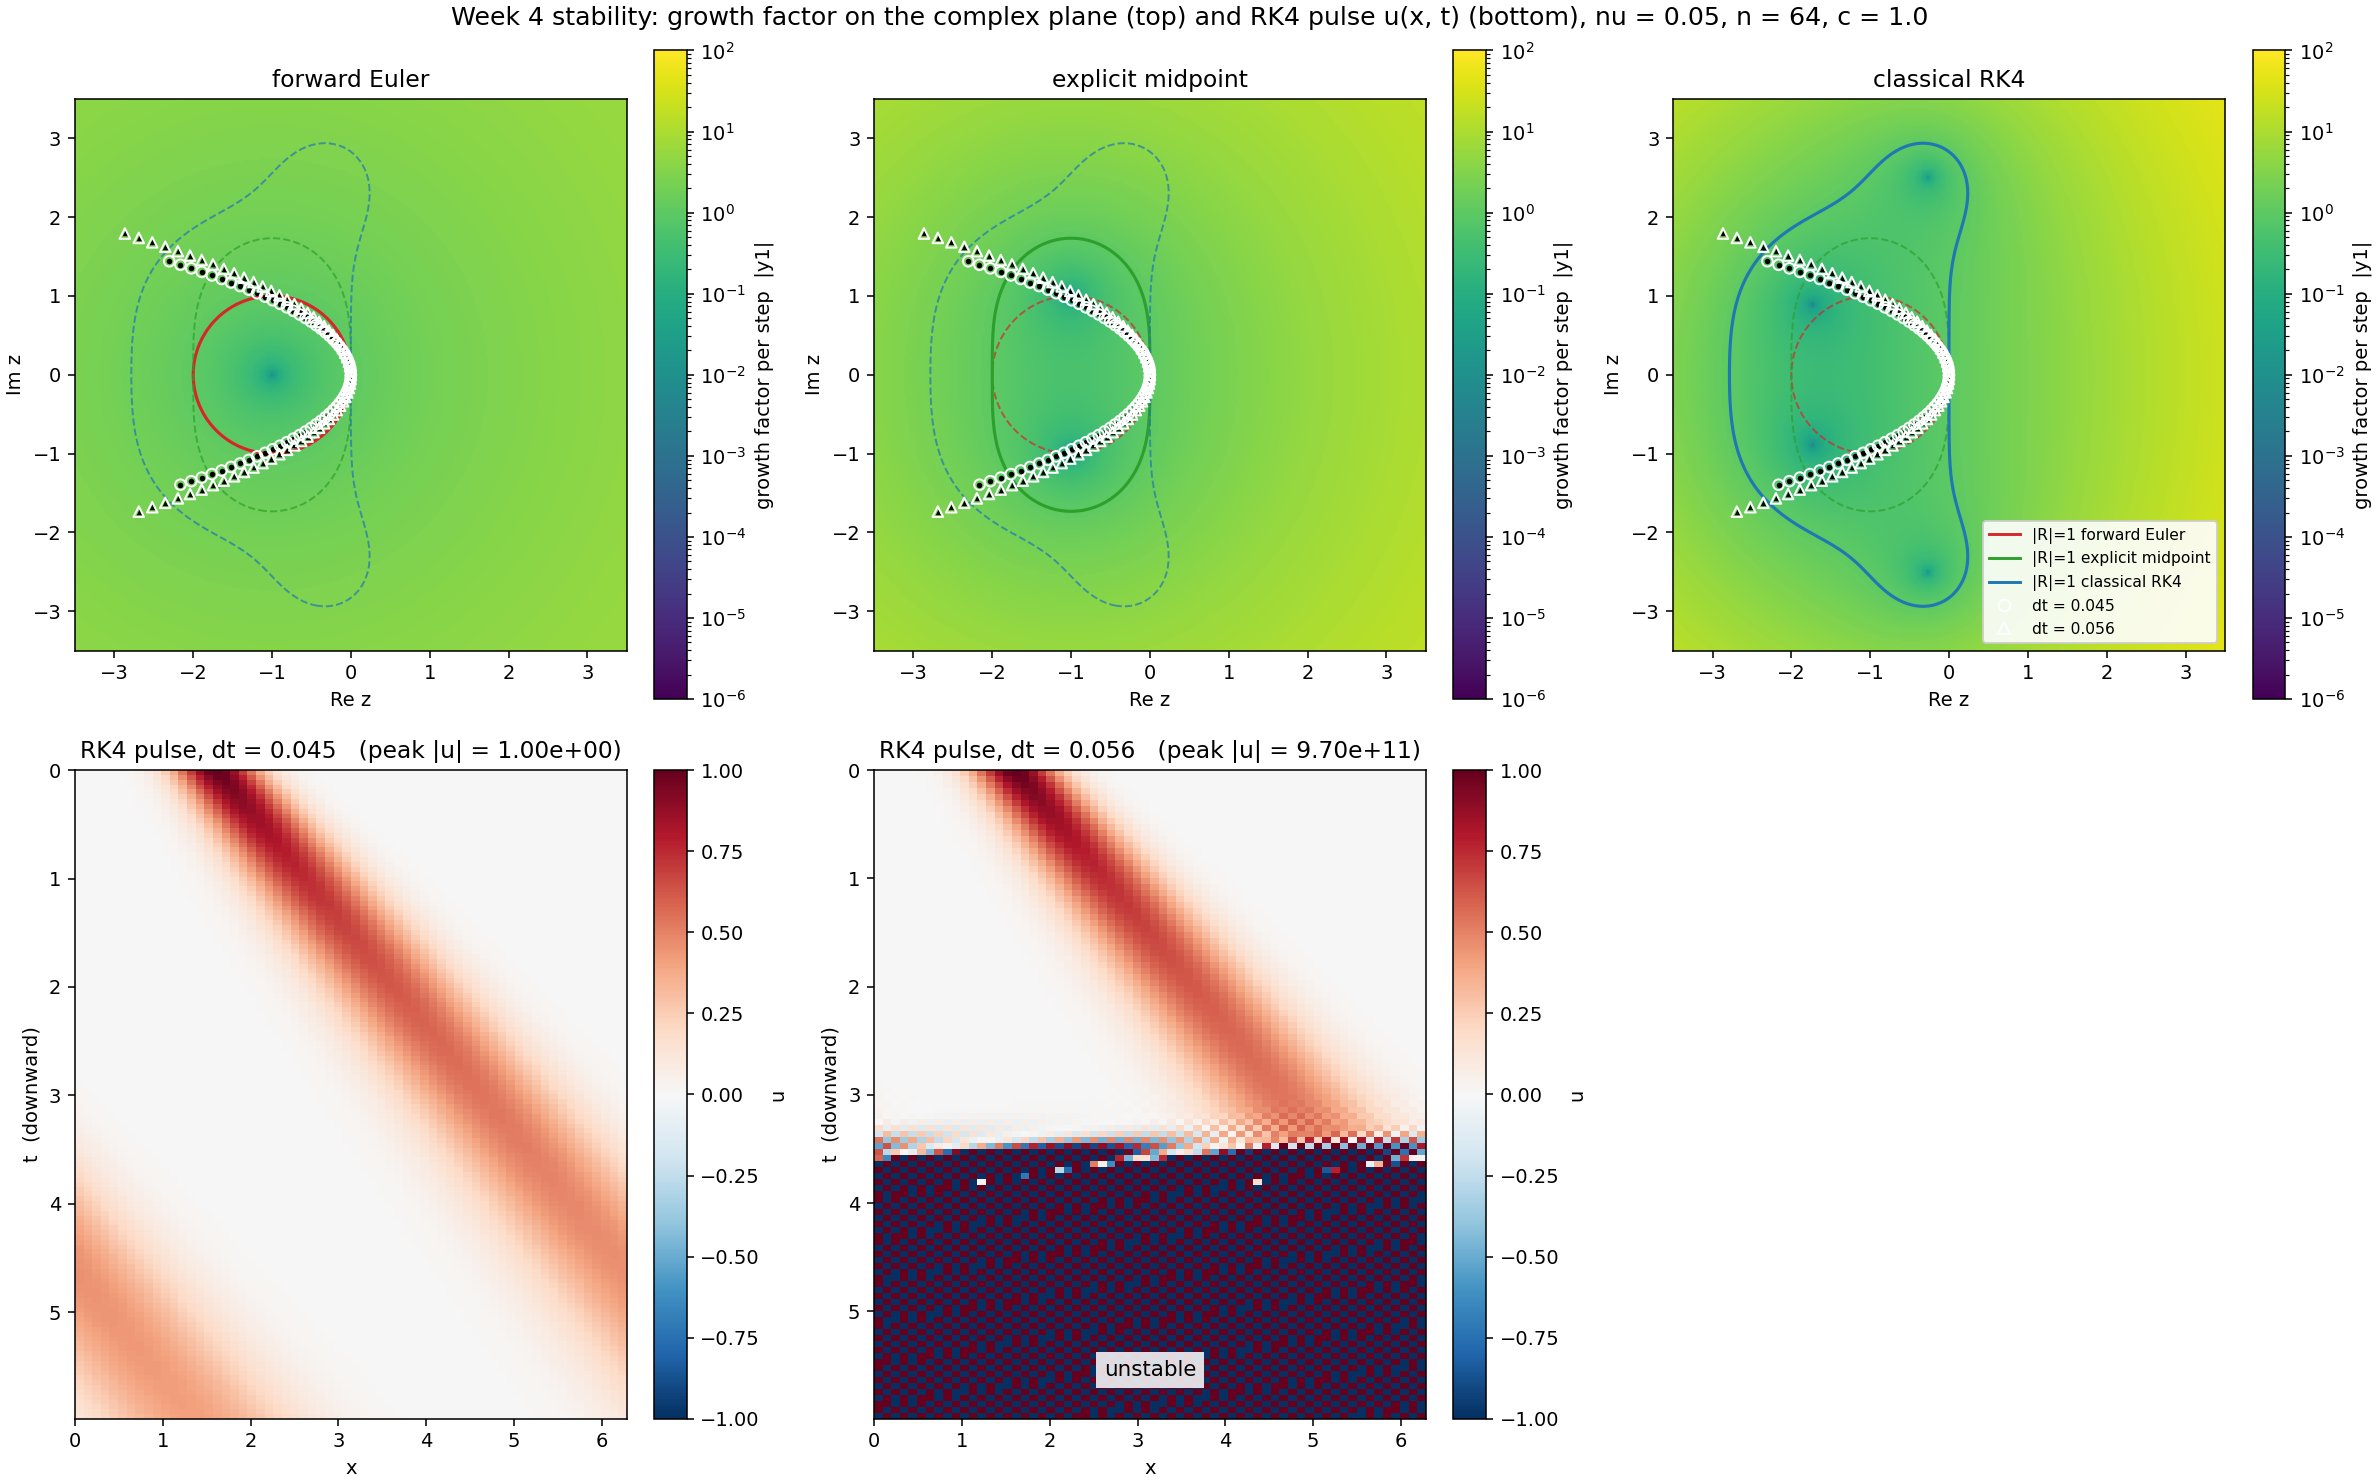
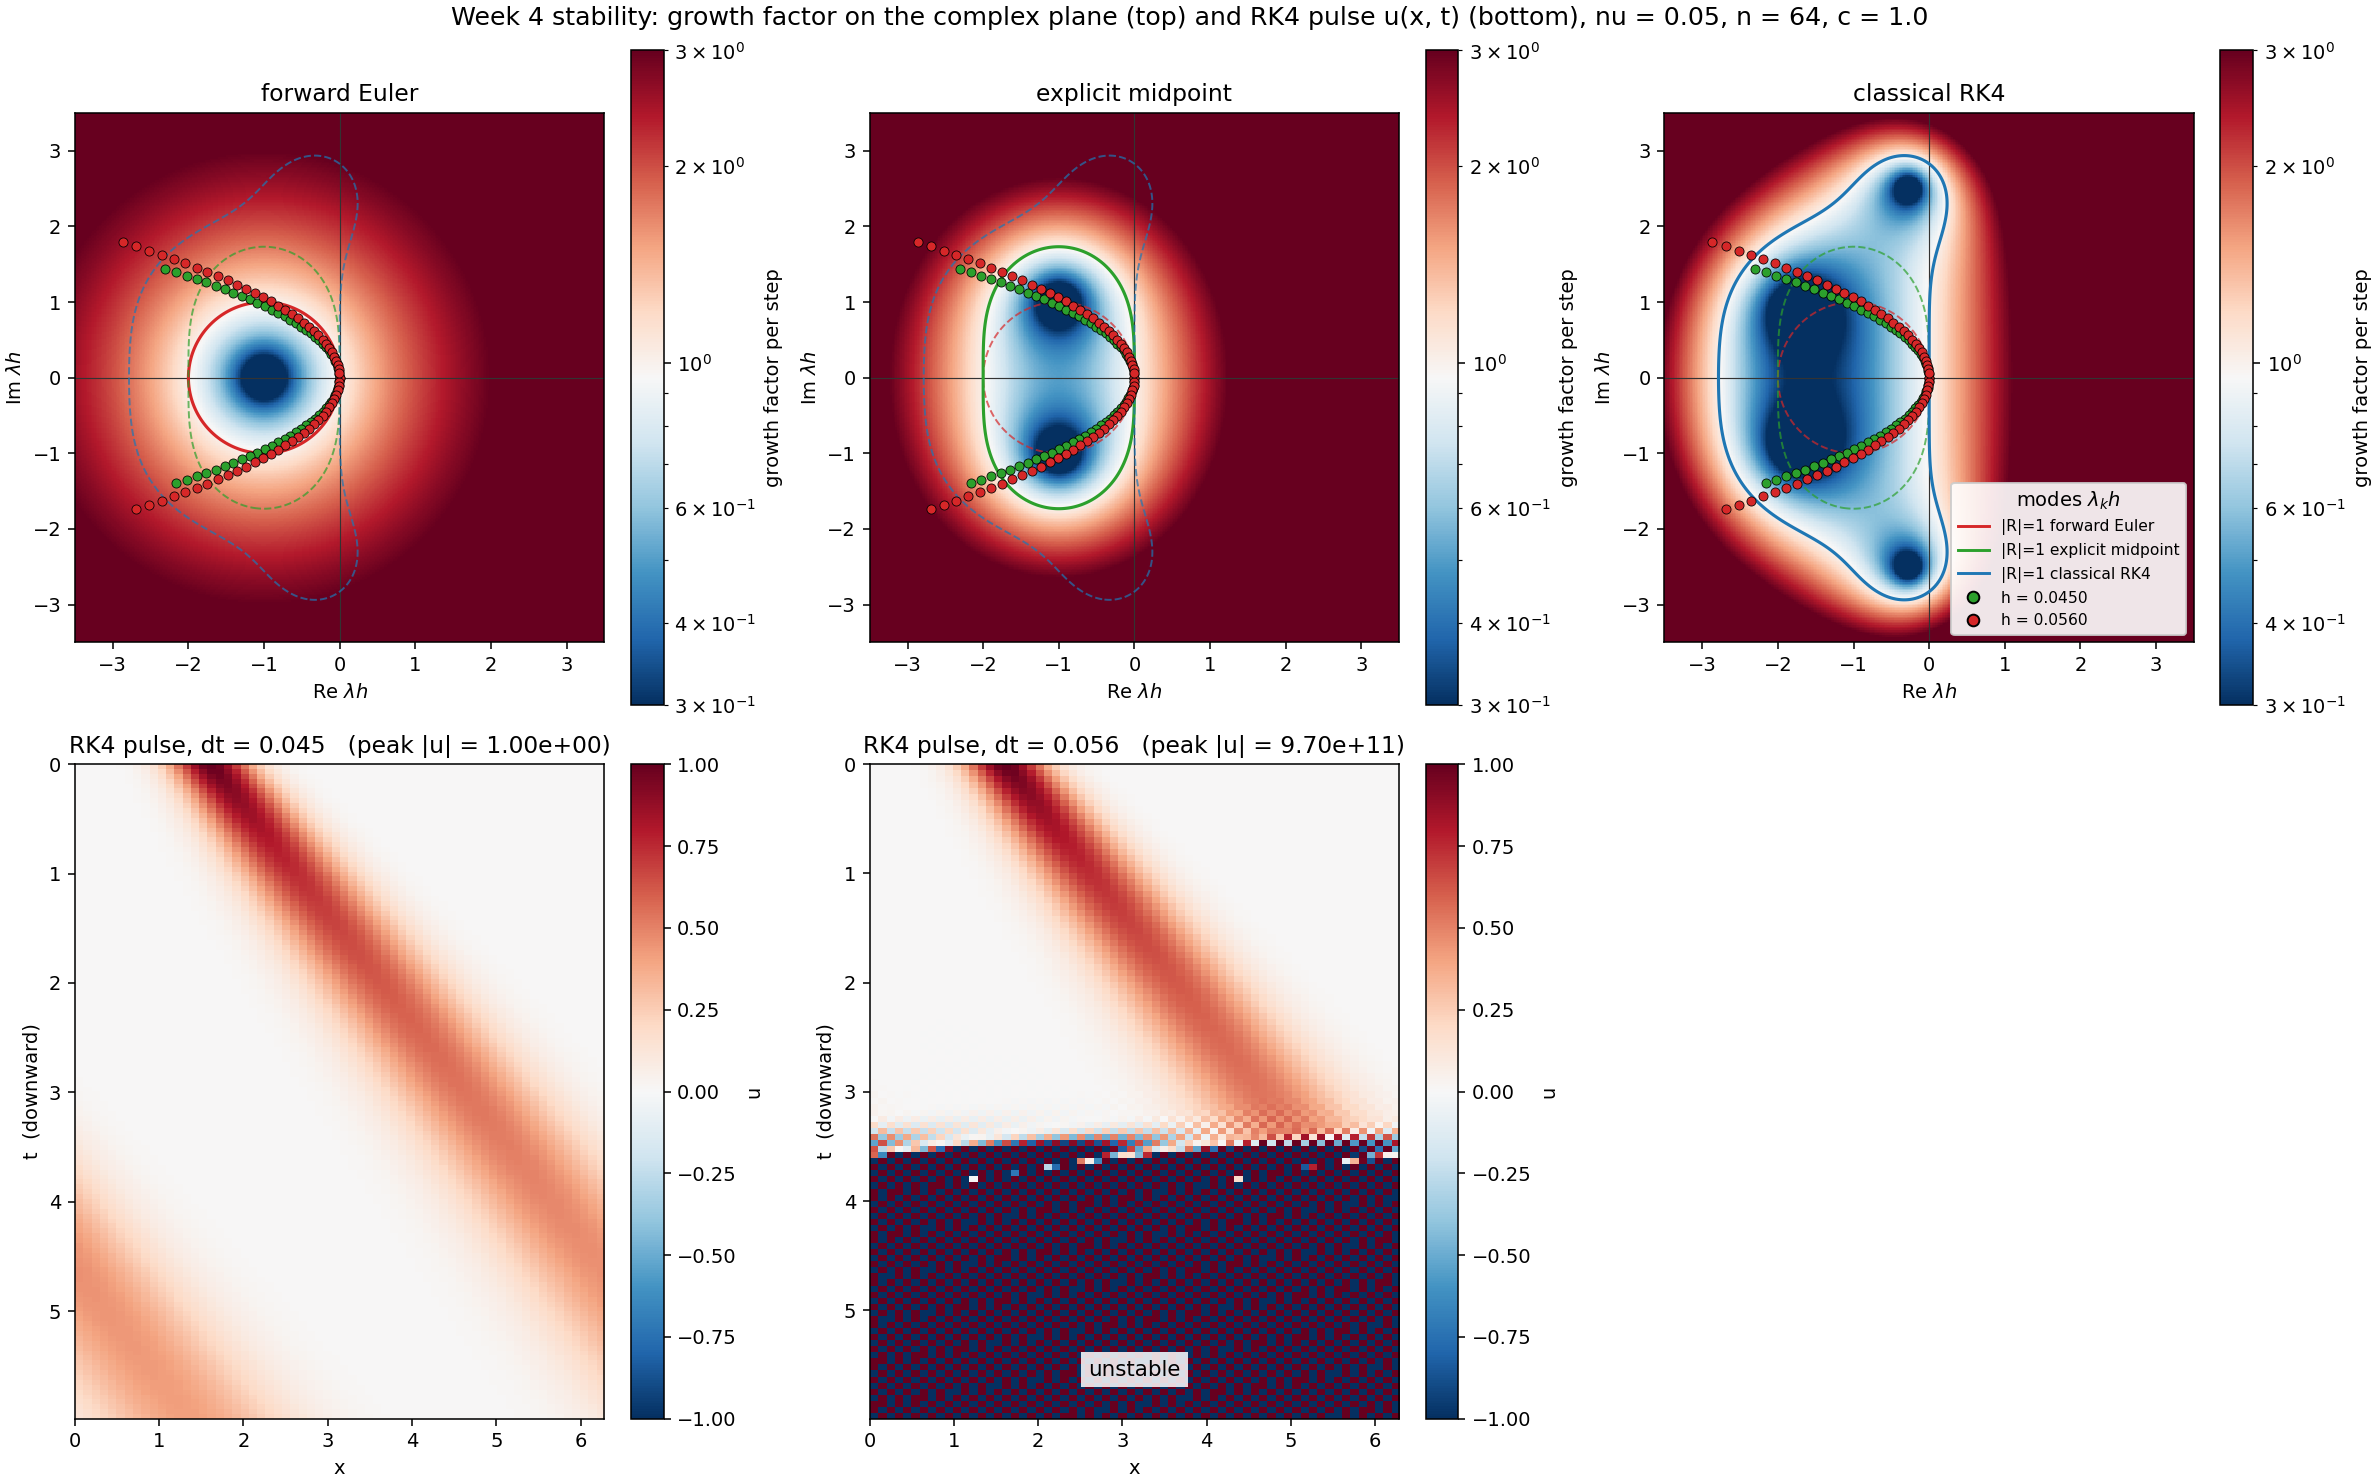
style: recolor week4 stability panels

diff --git a/week4/scripts/draw_line_stability.py b/week4/scripts/draw_line_stability.py
@@ -43,6 +43,7 @@ N = 64
 C = 1.0
 NU = 0.05
 DTS = [0.045, 0.056]
+MODE_COLORS = ["#2ca02c", "#d62728"]
 
 
 def stability_polynomial(name, z):
@@ -97,10 +98,10 @@ def draw_stability(axes, fig):
     for ax, name in zip(axes, SCHEMES):
         re, im, g = to_square(data[name])
         mesh = ax.pcolormesh(
-            re, im, g.T, shading="auto", cmap="viridis",
-            norm=LogNorm(vmin=1e-6, vmax=1e2), rasterized=True,
+            re, im, np.clip(g.T, 1e-3, None), shading="auto", cmap="RdBu_r",
+            norm=LogNorm(vmin=0.3, vmax=3.0), rasterized=True,
         )
-        fig.colorbar(mesh, ax=ax, label="growth factor per step  |y1|")
+        fig.colorbar(mesh, ax=ax, label="growth factor per step")
 
         xr = np.linspace(-3.5, 3.5, 700)
         xg, yg = np.meshgrid(xr, xr)
@@ -115,21 +116,19 @@ def draw_stability(axes, fig):
                 alpha=1.0 if other == name else 0.7,
             )
 
-        for dt, marker in zip(DTS, ("o", "^")):
+        for dt, color in zip(DTS, MODE_COLORS):
             z = lambda_spectral * dt
-            ax.scatter(z.real, z.imag, s=8, marker=marker, color="black",
-                       linewidths=0.0, zorder=4)
-            ax.scatter(z.real, z.imag, s=30, marker=marker, facecolors="none",
-                       edgecolors="white", linewidths=1.0, zorder=5)
+            ax.scatter(z.real, z.imag, s=22, marker="o", color=color,
+                       edgecolors="black", linewidths=0.4, zorder=4)
 
         ax.set_title(LABELS[name])
-        ax.set_xlabel("Re z")
-        ax.set_ylabel("Im z")
+        ax.set_xlabel("Re $\\lambda h$")
+        ax.set_ylabel("Im $\\lambda h$")
         ax.set_xlim(-3.5, 3.5)
         ax.set_ylim(-3.5, 3.5)
         ax.set_aspect("equal")
-        ax.axhline(0.0, color="0.8", linewidth=0.6, zorder=0)
-        ax.axvline(0.0, color="0.8", linewidth=0.6, zorder=0)
+        ax.axhline(0.0, color="0.2", linewidth=0.6, zorder=1)
+        ax.axvline(0.0, color="0.2", linewidth=0.6, zorder=1)
 
         handles = [
             plt.Line2D([], [], color=COLORS[s], linestyle="-",
@@ -138,15 +137,15 @@ def draw_stability(axes, fig):
         ]
         handles += [
             plt.Line2D([], [], marker="o", linestyle="none",
-                       markerfacecolor="none", markeredgecolor="white",
-                       label="dt = 0.045"),
-            plt.Line2D([], [], marker="^", linestyle="none",
-                       markerfacecolor="none", markeredgecolor="white",
-                       label="dt = 0.056"),
+                       markerfacecolor=MODE_COLORS[0], markeredgecolor="black",
+                       label="h = 0.0450"),
+            plt.Line2D([], [], marker="o", linestyle="none",
+                       markerfacecolor=MODE_COLORS[1], markeredgecolor="black",
+                       label="h = 0.0560"),
         ]
         if name == "classical-rk4":
             ax.legend(handles=handles, loc="lower right", fontsize=8,
-                      framealpha=0.9)
+                      framealpha=0.9, title="modes $\\lambda_k h$")
 
 
 def draw_pulse(axes, fig):
